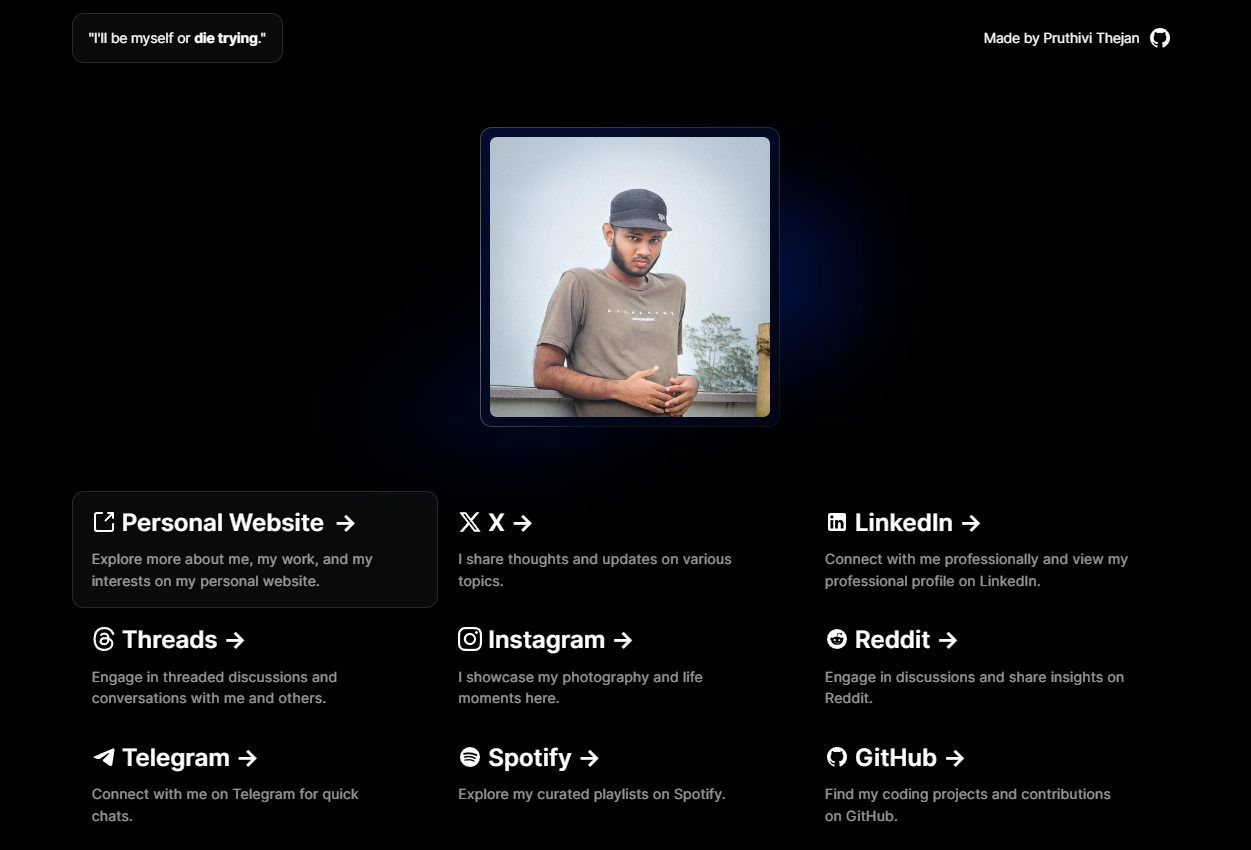
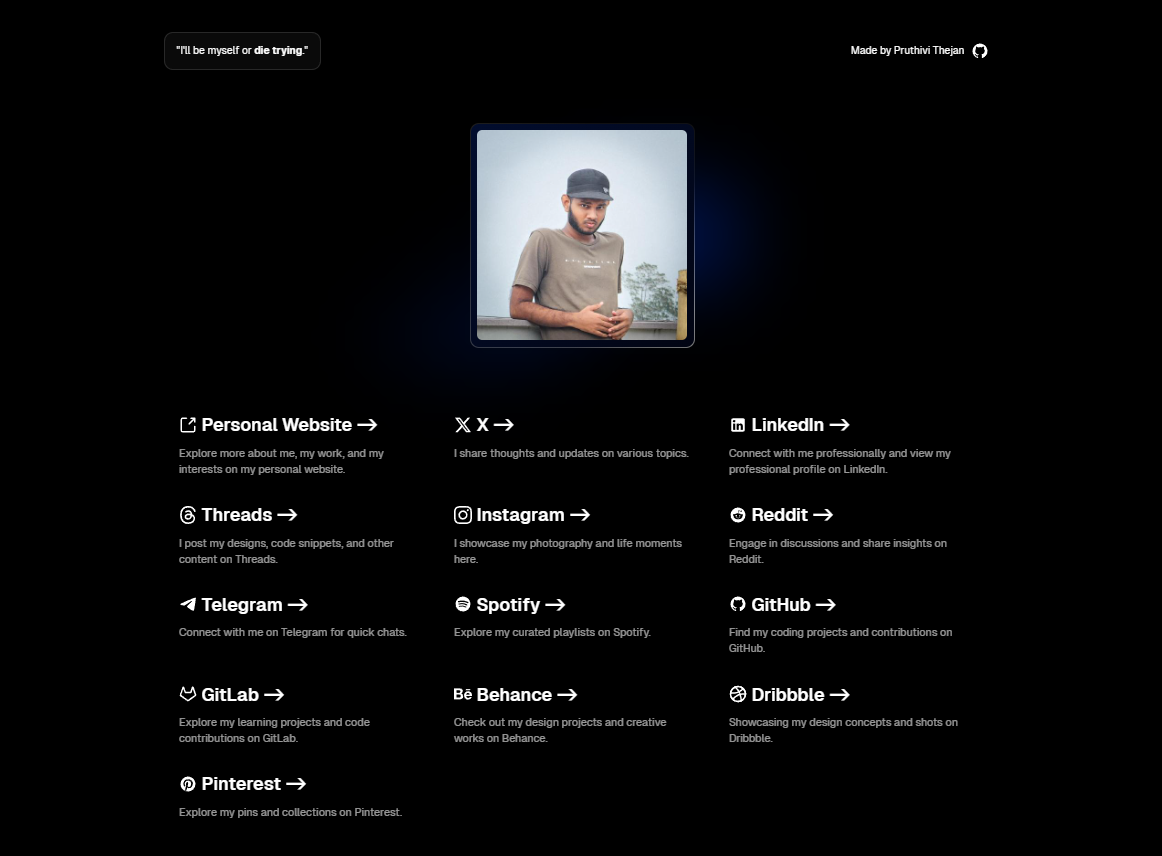
Edited README.md

diff --git a/content.ts b/content.ts
@@ -72,16 +72,22 @@ export const Cards = [
       "Explore my learning projects and code contributions on GitLab.",
   },
   {
-    href: "https://www.behance.net/pruthivithejan",
-    icon: "behance",
-    title: "Behance",
-    description: "Check out my design projects and creative works on Behance.",
+    href: "https://layers.to/pruthivithejan",
+    icon: "layers",
+    title: "Layers",
+    description: "Showcasing component designs and fonts, gradients and more.",
   },
   {
     href: "https://dribbble.com/pruthivithejan",
     icon: "dribbble",
     title: "Dribbble",
     description: "Showcasing my design concepts and shots on Dribbble.",
+  },
+  {
+    href: "https://www.behance.net/pruthivithejan",
+    icon: "behance",
+    title: "Behance",
+    description: "Check out my design projects and creative works on Behance.",
   },
   {
     href: "https://www.pinterest.com/pruthivithejan/",

diff --git a/src/index.css b/src/index.css
@@ -87,6 +87,7 @@ html,
 body {
   max-width: 100vw;
   overflow-x: hidden;
+  font-family: var(--font-mono);
 }
 
 body {

diff --git a/README.md b/README.md
@@ -20,7 +20,7 @@ pnpm install
 pnpm run dev
 ```
 
-This will start the project on your `localhost:3000`. Open the browser and see if it works.
+This will start the project on your `localhost:5173`. Open the browser and see if it works.
 
 - All you have to do is go to the `content.ts` file and replace everything with your information.
 
@@ -37,24 +37,25 @@ export const slogan = {
 
 export const Cards = [
 {
-href: "https://mobile.twitter.com/pruthivithejan", //Change the link here to your liking.
-icon: "twitter", //Please check if the `public/` folder has the SVG to your link or place a one yourself, It must be a .svg file.
-title: "Twitter", //Change the title to your liking.
-description: "I care about Twitter, I hope Elon Musk will not ruin it.", //Change the description to your liking.
+href: "https://x.com/pruthivithejan", //Change the link here to your liking.
+icon: "x", //Please check if the `public/` folder has the SVG to your link or place a one yourself, It must be a .svg file.
+title: "X", //Change the title to your liking.
+description: "I share thoughts and updates on various topics.", //Change the description to your liking.
 }, //...add more
 
 ```
-- Change the Meta tags on index.html if needed.
-  
+
+- Change the `meta` tags on index.html if needed.
 - Save, come back and see if the changes are made.
 
 - If you want any new Icons add them to `public` folder as SVGs. You can find SVG Icons [here](https://icon-sets.iconify.design/).
 
+- If you're not using a custom domain delete the `CNAME` file and add your repository name to `vite.config.ts` as `base: "/links/,`
+
 - Deploying is automatically set to GitHub Pages. make sure you [enable](https://docs.github.com/en/pages/quickstart) Github Pages for the repository.
-  
 - Make sure these things are correct if not deployed
-     https://stackoverflow.com/questions/74518887/blank-page-when-deploying-a-react-app-to-github-pages-and-vite
-     https://stackoverflow.com/questions/77348361/resolved-github-pages-deployment-blank-vite-react-ts
+  - https://stackoverflow.com/questions/74518887/blank-page-when-deploying-a-react-app-to-github-pages-and-vite
+  - https://stackoverflow.com/questions/77348361/resolved-github-pages-deployment-blank-vite-react-ts
 
 ✨ Leave a Star on the repository if you like. ✨ <br>
 
